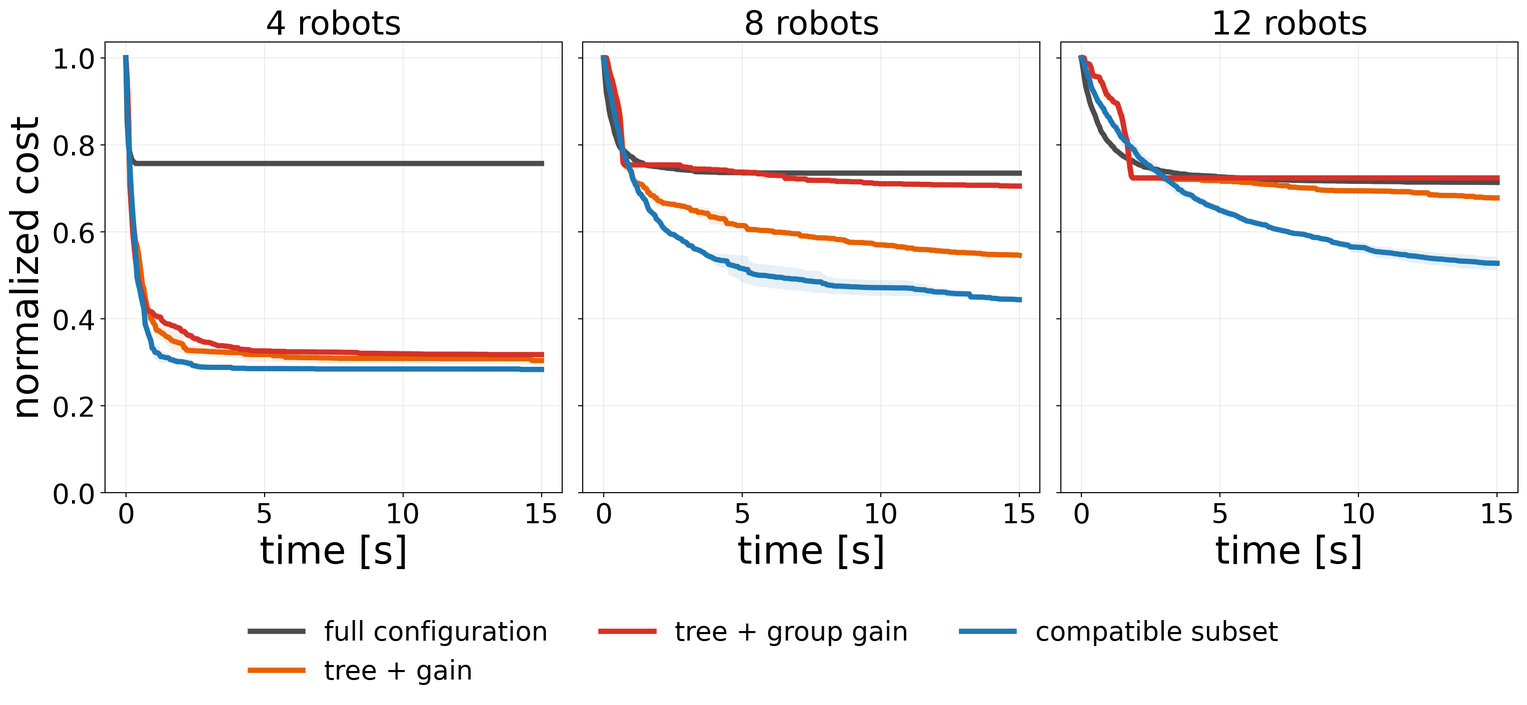
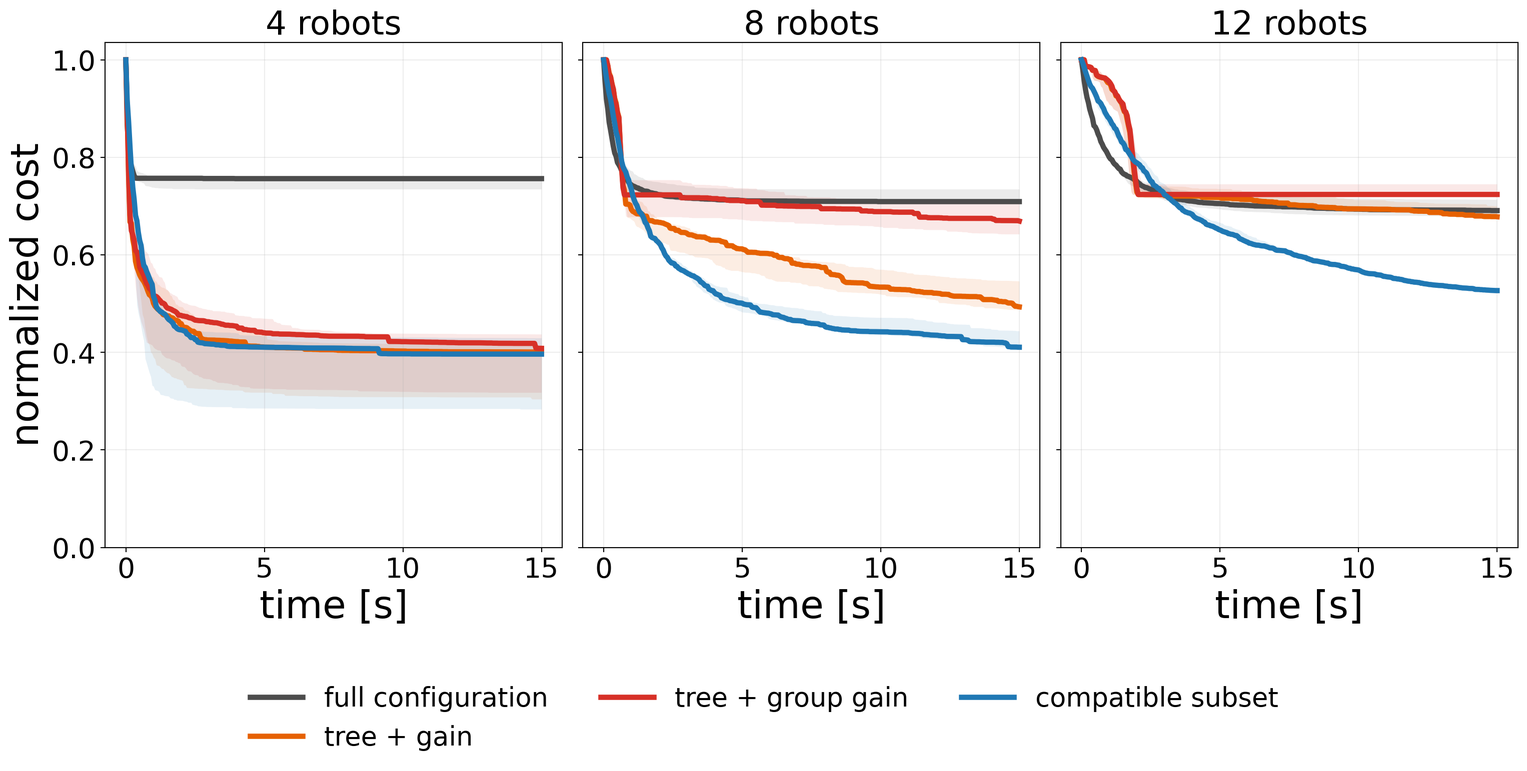
Final scalable multi-robot shortcutting

diff --git a/_posts/2026-10-04-scalable-multi-robot-shortcutting.md b/_posts/2026-10-04-scalable-multi-robot-shortcutting.md
@@ -1,7 +1,7 @@
 ---
 layout: post
 title: "Scaling shortcutting to many robots"
-date: 2026-10-10 12:00:00 +0200
+date: 2026-10-13 12:00:00 +0200
 permalink: /scalable-multi-robot-shortcutting/
 categories: path-planning
 # published: false
@@ -11,28 +11,29 @@ categories: path-planning
 
 
 <p class="preface">
-This is a follow up to the previous post on multi-robot multi-goal shortcutting.
+This is a follow-up to the previous post on multi-robot multi-goal shortcutting.
 We have the same problem again, but I want to focus a bit more on scalability to a high(er) number of robots here.
-Previously, we went to four robots only, and so we didnt really explore any scaling behavior (except for some scaling with the number of tasks).
+Previously, we went to four robots only, and so we didn't really explore any scaling behavior (except for some scaling with the number of tasks).
 
-I'll revisit a couple of the approaches from the previous post, and we'll make up some new ones since (spoiler) the old thing does unfortunately not scale too well.
+I'll revisit a couple of the approaches from the previous post, and we'll make up some new ones since (spoiler) the old thing unfortunately does not scale too well.
 </p>
 
-In a [previous post](/multi-robot-shortcutting/) we looked at making the shortcutters in my [multi-robot mult-goal problem](/mrmg-planning) better.
+In a [previous post](/multi-robot-shortcutting/), we looked at making the shortcutters in my [multi-robot multi-goal problem](/mrmg-planning) better.
 Better here means 'faster', and 'resulting in a lower cost in the end'.
-Overall, the goal is obviously making the complete planners better -- the shortcutters are part of the planner, so we are focussing on this here.
+Overall, the goal is obviously making the complete planners better -- the shortcutters are a small isolated part of the planner, so we are focusing on this here.
+They are also generally usable outside of the planners, so they make for a nice benchmark that we can isolate and optimize.
 
-As the number of robots and tasks grow in our multi-robot multi-goal problem, some of the approaches that previously worked very well break down due to combinatorial complexity that was not an issue at lower robot numbers.
+As the number of robots and tasks grows in our multi-robot multi-goal problem, some of the approaches that previously worked very well break down due to combinatorial complexity that was not an issue at lower robot numbers.
 
-So while accounting for all combinations of robots, or computing statistics over many different combinations is very good for problems involving few robots, in practice the combinatorial nature of this makes it not scale to many robots (with many == any number > 4).
-While in reality, you will very often not have more than four robots in the same workspace, and so many of the previous approaches are fine, I want to look at slightly more scaleable approaches.
-What we want is a simple approach that scales to amny robots, and is as close as possible to the previous approaches on the simple problems.
+So while accounting for all combinations of robots or computing statistics over many different combinations is very good for problems involving few robots, in practice the combinatorial nature of this makes it not scale to many robots (with many == any number > 4).
+While in reality, you will very often not have more than four robots in the same workspace, and so many of the previous approaches are fine, I want to look at slightly more scalable approaches.
+What we want is a simple approach that scales to many robots and is as close as possible to the previous approaches on the simple problems.
 
 We are using [the same repo as before](https://github.com/vhartman/multi-robot-shortcutting) for the experiments.
 
 # The problem with many robots
 
-Before we begin, we briefly look at the problem we get with more than a handful robots, and its root cause on a problem where we simply add more robots.
+Before we begin, we briefly look at the problem we get with more than a handful of robots, and its root cause on a problem where we simply add more robots.
 So below, we have a problem where we have disk robots that move in 2D space, and need to reach a sequence of goals in a globally predetermined order{% include sidenote.html text='This is basically a continuous version of MAPD, if that helps.'%}.
 
 After some postprocessing, a solution for this problem looks like this, on the right, compared to the original plan on the left:
@@ -43,22 +44,22 @@ And the convergence curves that plot solution cost against computation time can 
 
 <img src="{{ site.url }}/assets/scalable-multi-robot-shortcutting/intro-disk-scaling.png" alt="Offline shortcutting convergence for four, eight, and twelve disk robots" style="width:100%;">
 
-Hard to miss, we see the very flat line of the group gain here, which just abruptly stops after the intial improvement, once we come to a high number of robots.
-This initial improvement is from the 'tree' part, which takes single robot segments, and shortcuts them.
+Hard to miss, we see the very flat line of tree + group gain here, which just abruptly stops after the initial improvement, once we come to a high number of robots.
+This initial improvement is from the 'tree' part, which takes single-robot segments and shortcuts them.
 The improvement then stops just after the 'tree'-part is finished, and the group-gain part begins.
 
-We remember from part 1, that 'group gain' computes gain proposals over many combinations of robots and modes.
+We remember from part 1 that 'group gain' computes gain proposals over many combinations of robots and modes.
 The stop then happens because the gain proposal suddenly takes too long due to looking at _all_ proposals (which scales combinatorially with the number of robots and robot-modes) to evaluate which one is best.
 This then means that we actually never get to attempt another shortcut.
 
-This behaviour is not restricted to the disk setting -- we can observe similar behavior in a fixed manipulator setting.
+This behavior is not restricted to the disk setting -- we can observe similar behavior in a fixed manipulator setting.
 
 <video autoplay loop muted playsinline controls style="width:100%;">
   <source src="{{ site.url }}/assets/scalable-multi-robot-shortcutting/coupled-box-stacking-r6.mp4" type="video/mp4">
 </video>
 
-with the scaling curves looking quite similar -- It is not as bad here, but we already see the group-gain slowing down somewhat.
-It is not as extreme as in the 12-disk-robot setting above, but the number of shortcut attempts is much lower than for fewer robots due to the overhead of copmuting the proposals.
+The scaling curves look quite similar -- it is not as bad here, but we already see tree + group gain slowing down somewhat.
+It is not as extreme as in the 12-disk-robot setting above, but the number of shortcut attempts is much lower than for fewer robots due to the overhead of computing the proposals.
 
 <img src="{{ site.url }}/assets/scalable-multi-robot-shortcutting/intro-coupled-scaling.png" alt="Offline shortcutting convergence for coupled box stacking with four and six robots" style="display:block; width:70%; margin:0 auto;">
 
@@ -90,46 +91,46 @@ Below, you can see where time is actually spent in the tree + group gain setting
 #### Slow starts
 
 The other issue we can observe in the plots above again is that the improvement in the beginning is very slow, compared to the full configuration shortcutting when using the makespan-cost.
-This is the case since we shortcut only single robots at a time, but the cost takes all the robots ino account.
+This is the case since we shortcut only single robots at a time, but the cost takes all the robots into account.
 This then means that we might have to first improve all robots' paths to a certain quality before we can actually see the cost improvement when using this cost function{% include sidenote.html text='This cost function is a decent approximation for the makespan of the solution, i.e., the time at which the latest robot will finish.'%}:
 
 $$
 C(\pi) = \sum_i \left(\max_r ||q_{i+1}^r - q_i^r||_2 + 0.01 \sum_r ||q_{i+1}^r - q_i^r||_2\right)
 $$
 
-Plotting each robots' path lenght, we can see that some robots' path lenght decrease relatively quickly, while others do improve more slowly.
+Plotting each robot's path length, we can see that some robots' path lengths decrease relatively quickly, while others do improve more slowly.
 Thus the overall cost does not decrease as fast as we would want it to.
-Below, we have an example for the 12 robots in a 2D environment, and we compare the full configuration shortcutting (on the left) with the tree + single robot gain approach (on the right).
+Below, we have an example for the 12 robots in a 2D environment, and we compare the full configuration shortcutting (on the left) with the tree + gain approach (on the right).
 
 <img src="{{ site.url }}/assets/scalable-multi-robot-shortcutting/cost-knee-high-robot-count.png" alt="Complete cost and individual robot path lengths for high-robot-count scaling scenarios" style="width:100%;">
 
-While I believe that this single robot shortcutting is a good overall investment, and makes the path much nicer already early on, it is not good anytime behavior for the complete cost{% include sidenote.html text='Stated slightly differently: It improves the behaviour of single robots, but does not improve the makespan significantly.'%}.
+While I believe that this single-robot shortcutting is a good overall investment and makes the path much nicer already early on, it is not good anytime behavior for the complete cost{% include sidenote.html text='Stated slightly differently: It improves the behavior of single robots, but does not improve the makespan significantly.'%}.
 
 # A scalable shortcutting policy
 
 We now know the issue(s) with the previous policy, and we can start to try approaches that do ideally not have these issues.
-As said before: our goal is to get something that generally works (i.e., does not only outperform the approaches from before on the high-robot-count problems), improves the cost as quickly as possible in the beginning, and is as simple as possible{% include sidenote.html text='I generally hold the opinion that algorithms are only going to be used if they are simple enough to implement, and do not have many moving pieces or copmlex ideas. RRT is such an example: Basically all motion planners worth looking at are some variation of RRT.'%}.
+As said before: our goal is to get something that generally works (i.e., does not only outperform the approaches from before on the high-robot-count problems), improves the cost as quickly as possible in the beginning, and is as simple as possible{% include sidenote.html text='I generally hold the opinion that algorithms are only going to be used if they are simple enough to implement, and do not have many moving pieces or complex ideas. RRT is such an example: Basically all motion planners worth looking at are some variation of RRT.'%}.
 
 So from the discussion above (and some experiments that I am not showing here) I know that the problem is really the 'gain' part.
 We did however like this in part 1 -- it worked very well in many cases -- so it is kind of sad that this is the issue apparently, and we need to get rid of it.
 
 But the obvious first thing to try from this takeaway is then that one way to tackle the scaling issue is just replacing the gain part, which does not scale, with something that scales better.
-One of the things that scales better (as can be observed above) is sampling a random robot subset and a run that is compatible with the robot subset (i.e., where there is no mode change from any of the robots), and shortcutting by randomly sampling an index pair from this run.
+One of the things that scales better (as can be observed above) is compatible subset: sampling a random robot subset and a run that is compatible with the robot subset (i.e., where there is no mode change from any of the robots), and shortcutting by randomly sampling an index pair from this run.
 
 Because we want to run these shortcutters in the loop of the planner, the other thing that I do not like is this fixed order of 'first doing one approach, then doing another one'.
-This is somewhat problematic in the online version of the current planners, since the shortcutters throw away their state when a new plan arrives{% include sidenote.html text='it is not trivial to carry over the copmuted statistics, or figure out what we have alredy done if the path changes.'%}, and thus the first part of the shortutting is repeated very often, while the second part receives too little time.
+This is somewhat problematic in the online version of the current planners, since the shortcutters throw away their state when a new plan arrives{% include sidenote.html text='It is not trivial to carry over the computed statistics or figure out what we have already done if the path changes.'%}, and thus the first part of the shortcutting is repeated very often, while the second part receives too little time.
 
 The obvious way to deal with this issue is interleaving the two approaches, instead of sequencing them.
-So we will test two things in the experiments: (1) sequentially running first 'tree', and then subset group, and (2) interleaving tree and group.
+So we will test two things in the experiments: (1) tree + compatible (sequenced), which first runs 'tree' and then compatible subset, and (2) tree + compatible (interleaved), which alternates calls to tree and compatible subset until the tree does not have any suggestions left.
 
 # Experimental setup
 
 We run scaling experiments on 4 scenarios, two of which we have seen before in the introduction:
 
 - **Disk**: We have multiple 2D robots that need to reach a prescribed sequence of poses, and at the end return to their home positions.
-- **Isolated box stacking**: We have a box stacking scenario with 4 boxes per table and with one robot per table, $$N$$ times -- the robots are not interacting with each other at all inthis setting.
+- **Isolated box stacking**: We have a box stacking scenario with 4 boxes per table and with one robot per table, $$N$$ times -- the robots are not interacting with each other at all in this setting.
 - **Coupled box stacking**: We have the box stacking scenario again, but with $$N$$ robots on one table. This means that the robots are clearly interacting with each other, and could collide.
-- **Mobile wall**: The $$N$$ mobile robots build a wall with a certain number of bricks, which we also vary. The robots are in the same environment, thus also interacting, and requiring a high level of collision avoidance.
+- **Mobile wall**: The $$N$$ mobile robots build a fixed 5×5 wall of 25 bricks; we vary only the number of robots. The robots are in the same environment, thus also interacting, and requiring a high level of collision avoidance.
 
 The scenarios are shown below as videos:
 
@@ -159,10 +160,11 @@ The scenarios are shown below as videos:
 </video>
 </details>
 
-We compare some of the old methods: (1) tree + gain, (2) tree + group gain, (3) robot subset + compatible run, and the 'new' methods we described above: tree + robot subset + compatible run (4) interleaved and (5) sequenced.
+We compare some of the old methods: (1) tree + gain, (2) tree + group gain, (3) compatible subset, and the 'new' methods we described above: (4) tree + compatible (interleaved) and (5) tree + compatible (sequenced).
 As a baseline we also add (6) full configuration shortcutting.
 
-As in the previous post, to make everything reasonably compareable, we start with the same initial path for all the methods, and report the median for 3 different initial paths and 3 different shortcutting seeds.
+As in the previous post, to make everything reasonably comparable, we start with the same initial path for all the methods. For the offline scaling and path-length-cost experiments, we use 3 different initial paths and 2 shortcutting seeds per path{% include sidenote.html text='Three method/scenario combinations have five successful runs instead of six; we aggregate the available runs.'%}, taking the median over the available seeds for each path and then the median across paths.
+The broad scenario comparison uses 3 initial paths and 3 shortcutting seeds per path, while the online comparison uses 1 initial path and 2 shortcutting seeds.
 We do this in the hope of avoiding a shortcutter just being a particularly good fit for a certain initial path.
 
 And finally, while it is useful if the shortcutter is good for a pure offline setting, we test the planners offline and online, as we typically do not only run the shortcutter for post-processing, but as part of a loop, where we reinsert the new paths into the planner, and continue planning using the (hopefully) better plan.
@@ -178,9 +180,9 @@ The plots show the median normalized cost at the end of shortcutting for a given
 <img src="{{ site.url }}/assets/scalable-multi-robot-shortcutting/offline-scaling-summary.png" alt="Final normalized offline shortcutting cost as the number of robots increases" style="width:100%;">
 
 The approaches all perform similarly enough for up to 4 robots.
-Depending on the scenario, we start seeing differences from 6 robots on, where the 'compatible subset', and the two versions of tree + compatible subset perform significantly better than the other planners.
+Depending on the scenario, we start seeing differences from 6 robots on, where compatible subset and the two tree + compatible variants perform significantly better than the other planners.
 
-Interleaving the tree and the subset vs sequencing is almost the same except for the mobile-wall setting for the highest number of robots, where we see that the interleaved approach works slightly better.
+The tree + compatible (interleaved) and tree + compatible (sequenced) methods perform almost the same except for the mobile-wall setting for the highest number of robots, where we see that the interleaved approach works slightly better.
 When looking at the full convergence plot however, I do feel like the approaches would converge to the same final cost.
 
 The full convergence plots are below:
@@ -205,46 +207,50 @@ The full convergence plots are below:
 <img src="{{ site.url }}/assets/scalable-multi-robot-shortcutting/offline-mobile-wall-scaling-curves.png" alt="Offline cost curves for the mobile-wall scaling scenarios" style="width:100%;">
 </details>
 
-I these plots we can also see that in some of the scenarios, the interleaved tree + composite approach also has slightly better anytime behavior (i.e. it decreases ever so slightly more quickly in the beginning) than the sequenced approach.
+In these plots, we can also see that in some of the scenarios, tree + compatible (interleaved) also has slightly better anytime behavior (i.e., it decreases ever so slightly more quickly in the beginning) than tree + compatible (sequenced).
 
-Finally, unfortunately the full convergence shortcutting remains significantly better for initial convergence.
-For pure performance reaosns, I think a case can be made for first running some full configuratio shortutting, and then switching to another method -- but this is again problematic for online performance, so I am not doinf this here for now.
+Finally, unfortunately the full configuration shortcutting remains significantly better for initial convergence.
+For pure performance reasons, I think a case can be made for first running some full configuration shortcutting, and then switching to another method -- but this is again problematic for online performance, so I am not doing this here for now.
 
 #### General performance
 
 In addition to the scaling, we also said that we wanted the new approach to play nice with the whole set of problems.
-So here we test int on the sam ebroad scenario as before, and in addition to before, I am also running this on the pure path length cost to see how the algorithms behave there.
+So here we test it on the same broad scenario set as before.
 
-<img src="{{ site.url }}/assets/scalable-multi-robot-shortcutting/offline-broad-comparison.png" alt="Offline shortcutting comparison across the broad scenario set" style="width:100%;">
+<img src="{{ site.url }}/assets/scalable-multi-robot-shortcutting/offline-broad-highlights.png" alt="Offline shortcutting comparison for Random 2D, box rearrangement, spiral tower, and car assembly" style="display:block; width:70%; margin:0 auto;">
 
 There is not much to say here: The planners perform very similarly to the good planners from the previous post.
 The biggest difference can be seen on car assembly, where our new methods from this post converge slightly slower than the gain methods.
 
 <details>
-<summary>Plots with a logarithmic time axis</summary>
+<summary>Full broad comparison — all 27 environments</summary>
+<img src="{{ site.url }}/assets/scalable-multi-robot-shortcutting/offline-broad-comparison.png" alt="Offline shortcutting comparison across all 27 broad scenarios" style="width:100%;">
+<details>
+<summary>Logarithmic time axis</summary>
 <img src="{{ site.url }}/assets/scalable-multi-robot-shortcutting/offline-broad-comparison-logx.png" alt="Offline shortcutting comparison across the broad scenario set with a logarithmic time axis" style="width:100%;">
+</details>
 </details>
 
 #### Online planning
 
-We have seen in the previous post that there is usually not much performane difference to be seen for th online versions of the shortcutters.
-Here, we run them on scenarios involving a moderate and higher numbers of robots.
+We have seen in the previous post that there is usually not much performance difference to be seen for the online versions of the shortcutters.
+Here, we run them on scenarios involving moderate and higher numbers of robots.
 
 <img src="{{ site.url }}/assets/scalable-multi-robot-shortcutting/online-largest.png" alt="Online shortcutting convergence for moderate and largest settings in each scaling family" style="width:100%;">
 
 And again, we can see that there is no huge difference for most scenarios.
 On the other hand, we can see that the planners seem to perform much worse when running planning + shortcutting compared to only running shortcutting on the initial plan offline.
 
-This points to an issue that the planner + shortcutting integration has that becomes only this visible at high robot numbers, not really to an issue the shortcutter have{% include sidenote.html text='To be analyzed in detail in a future post.'%}.
+This points to an issue that the planner + shortcutting integration has that becomes only this visible at high robot numbers, not really to an issue the shortcutters have{% include sidenote.html text='To be analyzed in detail in a future post.'%}.
 
 #### Performance for the path length cost
 
-As a last experiment, we look at the performance of the shortutters when using the sum of all single-robot-path lengths instead of the makespan cost to ensure that we did not overfit our methods to the specific setting we had there.
+As a last experiment, we look at the performance of the shortcutters when using the sum of all single-robot path lengths instead of the makespan cost to ensure that we did not overfit our methods to the specific setting we had there.
 
 <img src="{{ site.url }}/assets/scalable-multi-robot-shortcutting/offline-sum-cost-largest.png" alt="Offline shortcutting convergence with the sum-of-path-lengths cost for the largest setting in each scaling family" style="display:block; width:70%; margin:0 auto;">
 
-And we can see that the performance, and the ordering of the methods is close to unchanged, even though the curves look slightly differently.
-The new methods decrease the cost more quicjly than before in the sum-cost setting.
+And we can see that the performance and the ordering of the methods are close to unchanged, even though the curves look slightly different.
+The new methods decrease the cost more quickly than before in the sum-cost setting.
 However, the full-configuration shortcutting is also significantly faster than before, and as such, the gold standard for initial speedup is still the full configuration shortcutting.
 
 <details>
@@ -256,27 +262,35 @@ However, the full-configuration shortcutting is also significantly faster than b
 
 #### What seems to matter
 
-We can see that the cost function that we use has a large influence on how much influence single vs multi-robot at a time shortcutting has. 
-This is intuitive, but annoying.
-So generally, it is clear that the tree has a big influence on the end result, and overall seems to help, even though it makes the intitial progress seemingly slower.
+An important (the most important?) ingredient is apparently the shortcutting of groups: this both shortcuts (and thus improves the paths of) multiple robots at once and saves some time in collision checking, compared to shortcutting the same group one by one.
 
-So an important ingredient is appraently the shortcutting of groups: this both shortcuts (and thus improves the paths of) multiple robots at once, and second saves some time in collision checking, compared to shortcutting the same group one-by-one.
+Additionally, while the cost function that we use has a large influence on how much influence shortcutting one robot vs multiple robots at a time has, it does not change the ordering, and full configuration shortcutting is in all cases the fastest improving approach in the beginning.
+Thinking about this for long enough, this is understandable, but annoying.
 
-Repeatign from the previous post: mode-compatible shortcuts seem to matter a lot.
+Generally, it can also be seen that the tree has a big influence on the end result even though we only shortcut single robots at a time, and thus make the initial progress slower.
+However, it seems to help, and improve over compatible subset alone (likely because it gives a slight bias to shortcut longer single-robot segments).
 
-And the new thigs: random groups help avoid the combintorial complexity at little cost.
+The part of the algorithm that we added here which seems to help a lot is the random sampling of groups in combination with the single-robot tree, which helps avoid the combinatorial complexity of the other more complex approaches at little cost.
+
+I also briefly want to restate previous results that were reinforced once again: mode-compatible shortcuts seem to matter a lot, and if I had to choose one thing to do, it is this.
 
 #### Future work
 
-All of these approaches are relatively similar to general preexisting shortuct ideas. 
-During the course of the writing of these two posts I did also try more exotic things, but none really worked, respectively the classical things were always simpler and worked still better.
-So I do feel like there is a general opportunity to have a strong look at the shortcutting literature in general and try to do something fundamentally different to improve.
+All of these approaches are relatively similar to general preexisting shortcut ideas.
+During the course of writing these two posts, I did also try more exotic things, but none really worked; the classical things were always simpler and still worked better{% include sidenote.html text='And simpler is already better in itself anyways.'%}.
+So I do feel like there is a general opportunity to have a strong look at the shortcutting literature in general and try to do something fundamentally different to improve{% include sidenote.html text='Which is what I am trying to encourage with this benchmark!'%}.
 
-For example, a big issue with the shortcutting is that it relies on the straight line interpolation -- this only really works for geometric path planning (with exceptions) without constraints.
-It is also only improving paths where the straight-line contraction is actually eading to better paths.
-If I e.g. want to maximize clearance, this straight-line shortcutting is not going to be very helpful.
+For example, a big issue with the shortcutting is that it relies on straight-line interpolation -- this only really works for geometric path planning (with exceptions) without constraints.
+It is also only improving paths where the straight-line contraction is actually leading to better paths.
+If I, e.g., want to maximize clearance, this straight-line shortcutting is not going to be very helpful.
 
-Then, again more focused on what we did here: As next steps, we should look at how the shortcutting is actually used and implemented in the planners online.
+Then, more focused on what we did here: As next steps, we should look at how the shortcutting is actually used and implemented in the planners online.
 We have seen here that this seems to be the limiting factor now -- the time the shortcutters get is too low, and in addition, in the current implementation we are throwing away the state that the shortcutters accumulate.
 
-As a result, the differences between the online runs of the shortcutters is negligible, even though the offline differences are large.
+As a result, the differences between the online runs of the shortcutters are negligible, even though the offline differences are large.
+Even more extreme, the pure offline shortcutters find better paths than combining the shortcutting + planning, which should _never_ be the case.
+
+Finally, with the visualizations of the paths here, we can see that the paths are clearly still far from optimal.
+In the 12-disk setting, it is clear that they essentially act one-by-one -- and this also seemingly happens for the robots.
+They do not really use the fact that they can already move a lot even when it is not 'their turn', i.e., when another robot has the immediately next goal to reach first.
+This is also something that I need to look into, and see if the cost is to blame here, or if it is simply not yet optimal.
